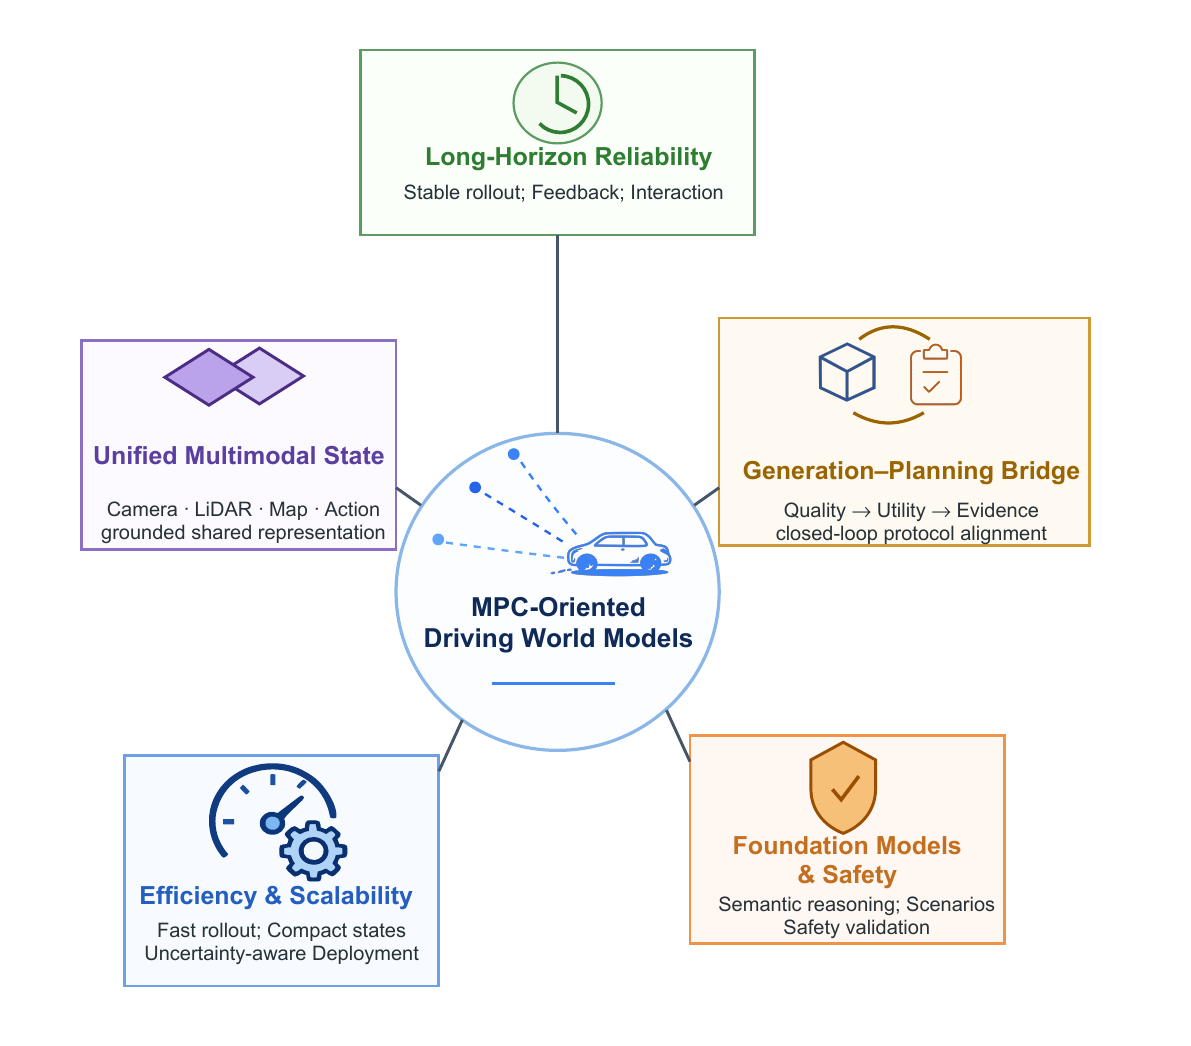
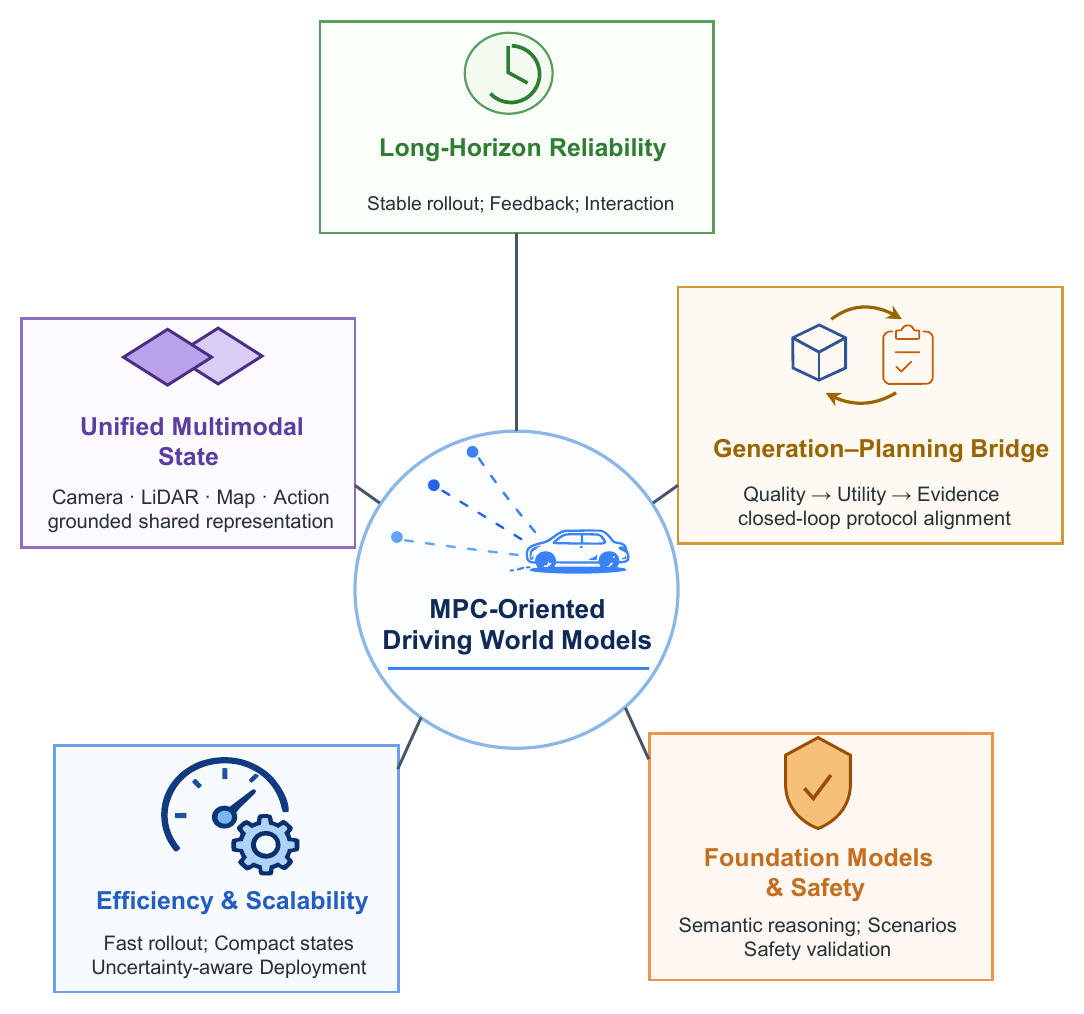
Update website for ADWM V5

diff --git a/styles.css b/styles.css
@@ -1,18 +1,18 @@
 :root {
   color-scheme: light;
-  --ink: #182126;
-  --muted: #5b6770;
-  --faint: #eef2f3;
-  --line: #dce4e7;
+  --ink: #0f172a;
+  --muted: #526174;
+  --faint: #eef5ff;
+  --line: #d8e6f7;
   --paper: #ffffff;
-  --soft: #f7faf9;
-  --teal: #0c7c7a;
-  --teal-deep: #075d61;
-  --blue: #2f5f9f;
-  --amber: #be7c1b;
-  --coral: #b94b4b;
-  --green: #3f7d4a;
-  --shadow: 0 18px 50px rgba(24, 33, 38, 0.08);
+  --soft: #f7fbff;
+  --teal: #2563eb;
+  --teal-deep: #1d4ed8;
+  --blue: #0f62fe;
+  --amber: #3b82f6;
+  --coral: #60a5fa;
+  --green: #1e40af;
+  --shadow: 0 14px 32px rgba(15, 23, 42, 0.07);
 }
 
 * {
@@ -26,8 +26,7 @@ html {
 body {
   margin: 0;
   color: var(--ink);
-  background:
-    linear-gradient(180deg, #f8fbfa 0%, #ffffff 25%, #f7faf9 100%);
+  background: linear-gradient(180deg, #f6f9ff 0%, #ffffff 28%, #f7fbff 100%);
   font-family: ui-sans-serif, system-ui, -apple-system, BlinkMacSystemFont, "Segoe UI", Arial, sans-serif;
   font-size: 16px;
   line-height: 1.65;
@@ -75,7 +74,7 @@ img {
   width: 34px;
   height: 34px;
   color: #ffffff;
-  background: linear-gradient(135deg, var(--teal), var(--blue));
+  background: var(--teal-deep);
   border-radius: 8px;
   font-size: 13px;
   letter-spacing: 0;
@@ -98,16 +97,13 @@ img {
 .nav-links a:hover,
 .nav-links a.active {
   color: var(--teal-deep);
-  background: #e8f3f2;
+  background: #eaf2ff;
 }
 
 .hero {
   padding: 72px 32px 46px;
   border-bottom: 1px solid var(--line);
-  background:
-    radial-gradient(circle at 14% 8%, rgba(12, 124, 122, 0.08), transparent 26%),
-    radial-gradient(circle at 86% 16%, rgba(190, 124, 27, 0.08), transparent 22%),
-    #f8fbfa;
+  background: #f6f9ff;
 }
 
 .hero-inner {
@@ -221,9 +217,9 @@ p {
 .filter-button:hover,
 .copy-button:hover {
   transform: translateY(-1px);
-  border-color: rgba(12, 124, 122, 0.42);
+  border-color: rgba(37, 99, 235, 0.42);
   color: var(--teal-deep);
-  background: #eff8f7;
+  background: #eef5ff;
 }
 
 .button.primary {
@@ -245,7 +241,7 @@ p {
   background: var(--paper);
   border: 1px solid var(--line);
   border-radius: 8px;
-  box-shadow: var(--shadow);
+  box-shadow: 0 10px 24px rgba(15, 23, 42, 0.06);
   overflow: hidden;
 }
 
@@ -340,7 +336,7 @@ figcaption {
   background: var(--paper);
   border: 1px solid var(--line);
   border-radius: 8px;
-  box-shadow: 0 10px 28px rgba(24, 33, 38, 0.05);
+  box-shadow: 0 8px 20px rgba(15, 23, 42, 0.045);
 }
 
 .contribution-grid article,
@@ -408,9 +404,9 @@ figcaption {
 
 .formula {
   padding: 14px;
-  color: #16343d;
-  background: #f1f7f7;
-  border: 1px solid #d5e9e7;
+  color: #173b78;
+  background: #f4f8ff;
+  border: 1px solid #dbeafe;
   border-radius: 8px;
   font-family: ui-monospace, SFMono-Regular, Menlo, Consolas, "Liberation Mono", monospace;
   font-size: 14px;
@@ -516,22 +512,22 @@ figcaption {
 
 .comparison-grid article:nth-child(1),
 .evaluation-grid article:nth-child(1) {
-  border-left: 4px solid var(--coral);
+  border-left: 4px solid #1d4ed8;
 }
 
 .comparison-grid article:nth-child(2),
 .evaluation-grid article:nth-child(2) {
-  border-left: 4px solid var(--blue);
+  border-left: 4px solid #2563eb;
 }
 
 .comparison-grid article:nth-child(3),
 .evaluation-grid article:nth-child(3) {
-  border-left: 4px solid var(--green);
+  border-left: 4px solid #3b82f6;
 }
 
 .comparison-grid article:nth-child(4),
 .evaluation-grid article:nth-child(4) {
-  border-left: 4px solid var(--amber);
+  border-left: 4px solid #60a5fa;
 }
 
 .evaluation-grid {
@@ -588,7 +584,7 @@ figcaption {
 }
 
 .author-grid {
-  grid-template-columns: repeat(6, minmax(0, 1fr));
+  grid-template-columns: repeat(auto-fit, minmax(150px, 1fr));
 }
 
 .author-card {
@@ -630,8 +626,8 @@ figcaption {
   max-width: 940px;
   margin: 0 auto;
   padding: 22px;
-  background: #142126;
-  border: 1px solid #20343b;
+  background: #0f172a;
+  border: 1px solid #1e293b;
   border-radius: 8px;
   box-shadow: var(--shadow);
 }
@@ -651,13 +647,13 @@ figcaption {
   top: 16px;
   right: 16px;
   color: #ffffff;
-  background: var(--teal);
-  border-color: var(--teal);
+  background: var(--teal-deep);
+  border-color: var(--teal-deep);
 }
 
 .copy-button.copied {
-  background: var(--green);
-  border-color: var(--green);
+  background: #1e40af;
+  border-color: #1e40af;
 }
 
 .site-footer {

diff --git a/index.html b/index.html
@@ -37,13 +37,14 @@
             <span>Han Huang*</span>
             <span>Dingkang Yang*</span>
             <span>Lulu Guo</span>
+            <span>Jing Cheng</span>
             <span>Yang Liu</span>
             <span>Victor C.M. Leung</span>
             <span>Hong Chen</span>
           </div>
-          <p class="affiliation-line">Tongji University, Fudan University, The Chinese University of Hong Kong, Shenzhen MSU-BIT University, Shenzhen University, The University of British Columbia</p>
+          <p class="affiliation-line">Tongji University, Fudan University, East China Normal University, The Chinese University of Hong Kong, Shenzhen MSU-BIT University, Shenzhen University, The University of British Columbia</p>
           <div class="action-row">
-            <a class="button primary" href="assets/ADWM-V3.pdf">Paper PDF</a>
+            <a class="button primary" href="assets/ADWM-V5.pdf">Paper PDF</a>
             <a class="button" href="assets/refs.bib">References</a>
             <a class="button" href="#citation">BibTeX</a>
             <a class="button" href="#taxonomy">Taxonomy</a>
@@ -72,7 +73,8 @@
           This survey adopts a Model Predictive Control perspective and views driving world models as
           predictive transition interfaces for state rollout, constraint reasoning, cost evaluation, uncertainty
           handling, and receding-horizon decision making. Existing methods are grouped into future world
-          generation, planning with world models, and hybrid prediction-planning world models.
+          generation, planning with world models, and hybrid prediction-planning world models. The V5
+          manuscript also adds Jing Cheng as a co-author and embeds the project-page link in the paper.
         </p>
       </div>
       <div class="contribution-grid">
@@ -429,6 +431,12 @@
           <a href="https://orcid.org/0000-0003-2285-2469">ORCID</a>
         </article>
         <article class="author-card">
+          <img src="assets/photos/CJ.jpg" alt="Jing Cheng">
+          <h3>Jing Cheng</h3>
+          <p>East China Normal University</p>
+          <a href="https://orcid.org/0009-0004-7297-627X">ORCID</a>
+        </article>
+        <article class="author-card">
           <img src="assets/photos/LiuY.jpg" alt="Yang Liu">
           <h3>Yang Liu</h3>
           <p>Tongji University</p>
@@ -458,7 +466,7 @@
         <button class="copy-button" type="button" data-copy-target="#bibtex">Copy BibTeX</button>
         <pre id="bibtex">@article{huang2026worldmodelsautonomousdriving,
   title   = {World Models for Autonomous Driving: From Future Generation to Decision Making},
-  author  = {Huang, Han and Yang, Dingkang and Guo, Lulu and Liu, Yang and Leung, Victor C. M. and Chen, Hong},
+  author  = {Huang, Han and Yang, Dingkang and Guo, Lulu and Cheng, Jing and Liu, Yang and Leung, Victor C. M. and Chen, Hong},
   journal = {IEEE Transactions on Intelligent Transportation Systems},
   year    = {2026},
   note    = {Manuscript}
@@ -468,7 +476,7 @@
   </main>
 
   <footer class="site-footer">
-    <p>Built as a static project page for the ADWM-V3 survey.</p>
+    <p>Built as a static project page for the ADWM-V5 survey.</p>
     <a href="#top">Back to top</a>
   </footer>
 

diff --git a/README.md b/README.md
@@ -1,12 +1,12 @@
 # World Models for Autonomous Driving
 
-Static project page for the survey:
+Static GitHub Pages project page for the V5 survey:
 
 **World Models for Autonomous Driving: From Future Generation to Decision Making**
 
 ## Local Preview
 
-Open `index.html` directly in a browser, or serve this folder with any static HTTP server.
+Open `index.html` directly in a browser, or serve this folder with any static HTTP server. The paper PDF is `assets/ADWM-V5.pdf`.
 
 ## GitHub Pages
 